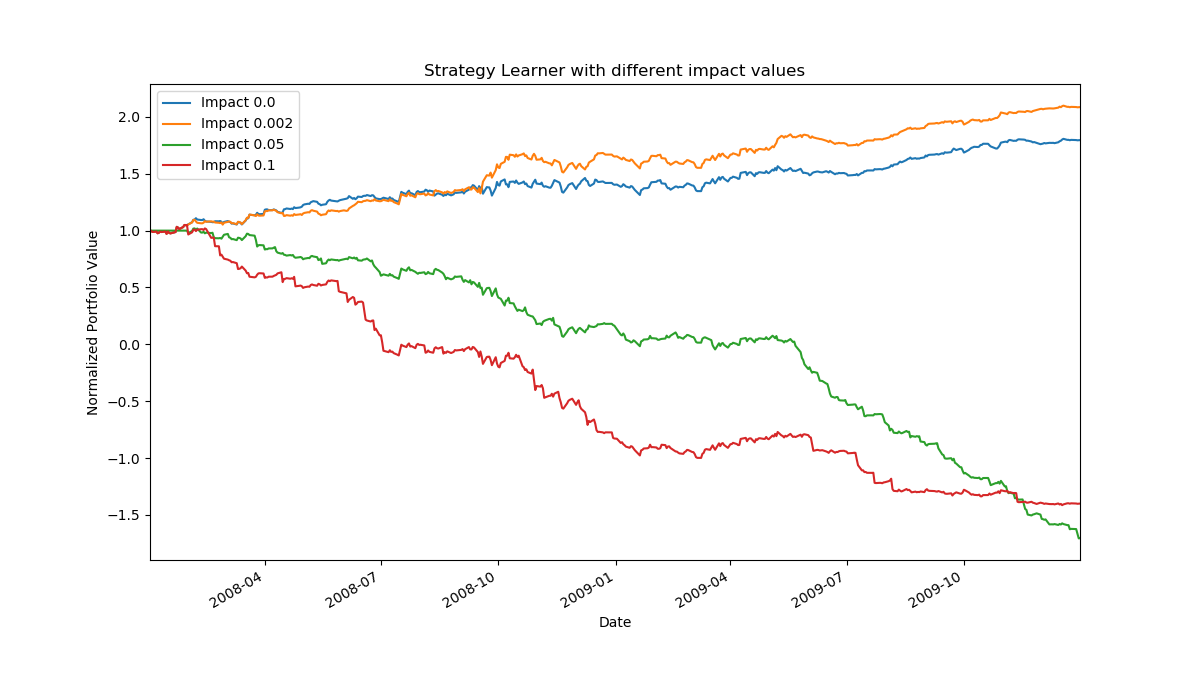
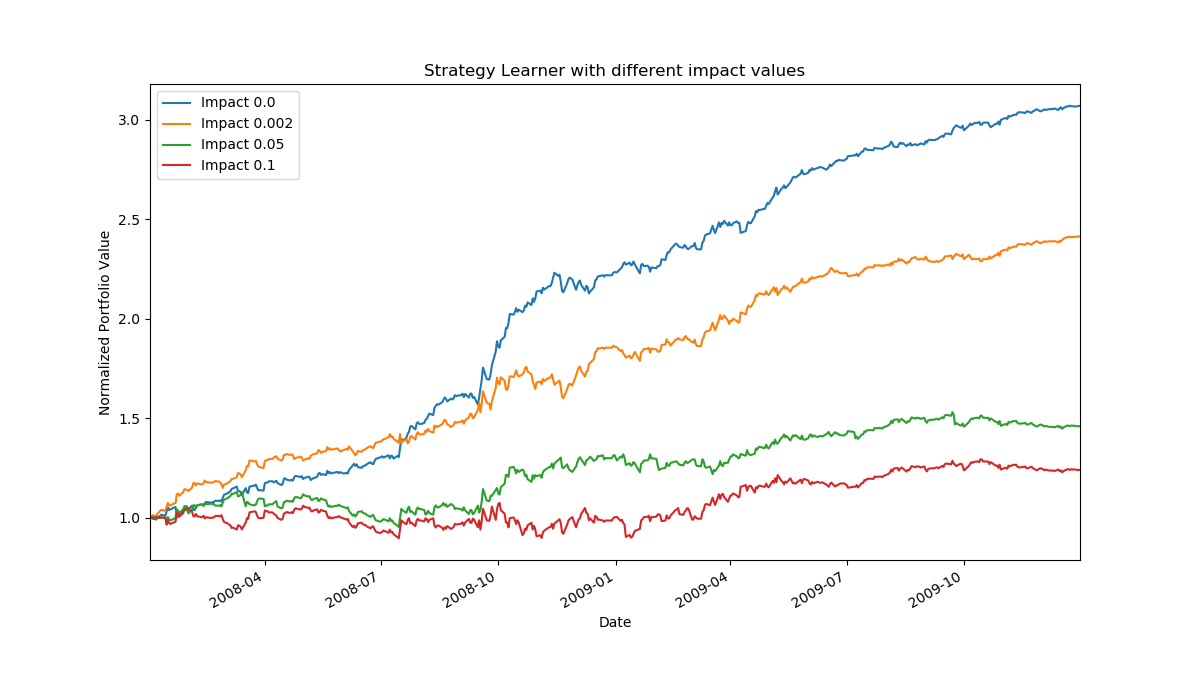
strategy revised BagLearner.py and RTLearner.py

diff --git a/strategy_evaluation/RTLearner.py b/strategy_evaluation/RTLearner.py
@@ -1,5 +1,5 @@
 import numpy as np
-
+from scipy import stats
 
 class RTLearner(object):
     def __init__(self,leaf_size=1, verbose=False):
@@ -10,29 +10,29 @@ class RTLearner(object):
     def author(self):
         return "fyuen3"
 
-    def find_random_feature_i(self, data):
-        random_feature_i = np.random.randint(data.shape[1]-1)
-        return random_feature_i
-
     def build_tree(self, data):
-        if data.shape[0] <= self.leaf_size:
-            leaf = np.array([[-1, np.mean(data[:,-1]), -1, -1]])
-            return leaf
+        tree = np.array([])
+        flag = 0
+        if (data.shape[0] <= self.leaf_size):
+            tree = np.array([['leaf', data[0][-1], '-1', '-1']])
+            return tree
 
-        if np.all(data[:,-1]) == data[0][-1]:
-            return np.array([[-1, data[0][-1], -1, -1]])
+        i= int(np.random.randint(data.shape[1] - 1))
 
-        else:
-            i = self.find_random_feature_i(data)
-            splitVal = np.median(data[:, i], axis=0)
-            if (splitVal == np.max(data[:, i], axis=0)):
-                index_of_max_value = np.argmax(data[:, i])
-                return np.array([[-1, data[index_of_max_value][-1], -1, -1]])
-            lefttree = self.build_tree(data[data[:, i] <= splitVal])
-            righttree = self.build_tree(data[data[:, i] > splitVal])
-            root = np.array([[i, splitVal, 1, lefttree.shape[0]+1]])
-            return np.vstack((root, lefttree, righttree))
+        # if values of Xattribute are the same
+        if (np.all(data[:, i] == data[0][i])):
+            return np.array([['leaf', np.mean(data[:, -1]), '-1', '-1']])
 
+        data = data[np.argsort(data[:, i])]
+        splitVal = np.median(data[0:, i])
+        if max(data[:, i]) == splitVal:
+            return np.array([['leaf', np.mean(data[:, -1]), '-1', '-1']])
+
+        leftTree = self.build_tree(data[data[:, i] <= splitVal])
+        rightTree = self.build_tree(data[data[:, i] > splitVal])
+        root = [i, splitVal, 1, leftTree.shape[0] + 1]
+        tree = np.vstack((root, leftTree, rightTree))
+        return tree
     def add_evidence(self, data_x, data_y):
         new_data = np.ones([data_x.shape[0], data_x.shape[1] + 1])
         new_data[:, 0: data_x.shape[1]] = data_x
@@ -40,18 +40,18 @@ class RTLearner(object):
         self.tree = self.build_tree(new_data)
 
     def query(self, points):
-        Ypred = np.array([])
-        for point in points:
-            node_index = 0
-            while True:
-                factor = int(self.tree[node_index, 0])
-                if factor == -1:
-                    Ypred = np.append(Ypred,self.tree[node_index, 1])
-                    break
+        row = 0
+        predY = np.array([])
+        for data in points:
+            while (self.tree[row][0] != 'leaf'):
+                X_attr = self.tree[row][0]
+                X_attr = int(float(X_attr))
+                if (float(data[X_attr]) <= float(self.tree[row][1])):
+                    row = row + int(float(self.tree[row][2]))
                 else:
-                    split_value = self.tree[node_index, 1]
-                    if point[factor] <= split_value:
-                        node_index = node_index + int(self.tree[node_index, 2])
-                    else:
-                        node_index = node_index + int(self.tree[node_index, -1])
-        return Ypred
+                    row = row + int(float(self.tree[row][3]))
+                row = int(float(row))
+            if (self.tree[row][0] == 'leaf'):
+                predY = np.append(predY, float(self.tree[row][1]))
+                row = 0
+        return predY

diff --git a/strategy_evaluation/StrategyLearner.py b/strategy_evaluation/StrategyLearner.py
@@ -96,17 +96,17 @@ class StrategyLearner(object):
 
         prices.ffill(inplace=True)
         prices.bfill(inplace=True)
-        lookback = 21
+        lookback = 2
         sma, sma_50_days, price_over_sma = getSMA(prices, lookback)
 
         top_band, bottom_band, bbp = getBollingerBand(prices, lookback)
 
         momentum = getMomentum(prices, lookback)
 
-        Xtrain = pd.concat((sma, bbp, momentum), axis=1)
+        Xtrain = pd.concat((price_over_sma, bbp, momentum), axis=1)
         Xtrain.fillna(0, inplace=True)
 
-        Xtrain = Xtrain[:-10]
+        Xtrain = Xtrain[:-5]
 
         Ytrain = np.zeros(Xtrain.shape[0])
 
@@ -114,8 +114,8 @@ class StrategyLearner(object):
         YBUY= 0.015 + self.impact
         YSELL = -0.015 - self.impact
 
-        for i in range(prices.shape[0] - 10):
-            ret= (prices.ix[i+10,symbol]/prices.ix[i,symbol])-1.0
+        for i in range(prices.shape[0] - 5):
+            ret= (prices.ix[i+5,symbol]/prices.ix[i,symbol])-1.0
             if ret > YBUY:
                 Ytrain[i] = +1  # LONG
             elif ret < YSELL:
@@ -160,35 +160,40 @@ class StrategyLearner(object):
             prices.drop('SPY', axis=1, inplace=True)
         prices.ffill(inplace=True)
         prices.bfill(inplace=True)
-        lookback = 21
-        sma, sma_50_days, cross_signal_df = getSMA(prices, lookback)
+        lookback = 2
+        sma, sma_50_days, price_over_sma = getSMA(prices, lookback)
         top_band, bottom_band, bbp = getBollingerBand(prices, lookback)
         momentum = getMomentum(prices, lookback)
 
-        Xtest = pd.concat((sma, bbp, momentum), axis=1)
+        Xtest = pd.concat((price_over_sma, bbp, momentum), axis=1)
         Xtest.fillna(0, inplace=True)
 
         Ytest = self.learner.query(Xtest.values)
         holding_df = pd.DataFrame(index=prices.index, data=np.zeros(prices.shape), columns=prices.columns)
         df_trades = pd.DataFrame(index=prices.index, columns=['Trades'])
+        df_trades['Trades'] = 0
 
+        signal = 0
+        for i in range(prices.shape[0]):
+            index = prices.index[i]
+            if signal == 0:
+                if Ytest[i] > 0:
+                    df_trades.loc[index, 'Trades'] = 1000
+                    signal = 1
 
-        for i in range(holding_df.shape[0]-1):
-            index = holding_df.index[i]
-            price_change =  Ytest[i]
-            holding = 0
-            if i > 0:
-                holding = holding_df.iloc[i - 1][symbol]
-            position = np.sign(price_change) * 1000
-            if holding + position > 1000 or holding + position < -1000:
-                position = 0
-            elif 1000 >= holding + position * 2 >= -1000:
-                position = position * 2
+                elif Ytest[i] < 0:
+                    df_trades.loc[index, 'Trades'] = -1000
+                    signal = -1
 
-            df_trades.loc[index, 'Trades'] = position
-            holding_df.iloc[i][symbol] = position + holding
-        df_trades.iloc[-1] = 0
+            elif signal == -1:
+                if Ytest[i] > 0:
+                    df_trades.loc[index, 'Trades'] = 2000
+                    signal = 1
 
+            elif signal == 1:
+                if Ytest[i] < 0:
+                    df_trades.loc[index, 'Trades'] = -2000
+                    signal = -1
         return df_trades
   		  	   		  	  			  		 			     			  	 
   		  	   		  	  			  		 			     			  	 

diff --git a/strategy_evaluation/BagLearner.py b/strategy_evaluation/BagLearner.py
@@ -1,5 +1,5 @@
 import numpy as np
-
+from scipy import stats
 
 class BagLearner(object):
     def __init__(self, learner, kwargs, bags, boost=False, verbose=False):
@@ -27,4 +27,7 @@ class BagLearner(object):
         Ypred = []
         for learner in self.learners:
             Ypred.append(learner.query(points))
-        return np.mean(Ypred, axis=0)
+
+        Ypred = np.array(Ypred)
+        res = stats.mode(Ypred)
+        return res[0][0]

diff --git a/strategy_evaluation/ManualStrategy.py b/strategy_evaluation/ManualStrategy.py
@@ -55,7 +55,6 @@ def testPolicy(
             if price_over_sma.iloc[i][symbol] > 1.5 or bbp.iloc[i][symbol] > 0.9 or momentum.iloc[i][symbol] > 0.2:
                 df_trades.loc[index, 'Trades']= -2000
                 signal = -1
-    df_trades.iloc[-1] = 0
     return df_trades
 
 
